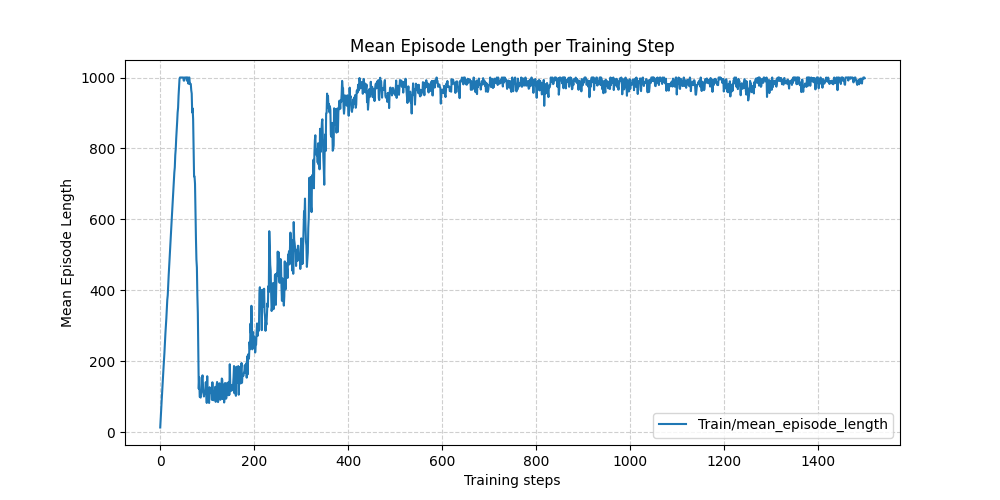
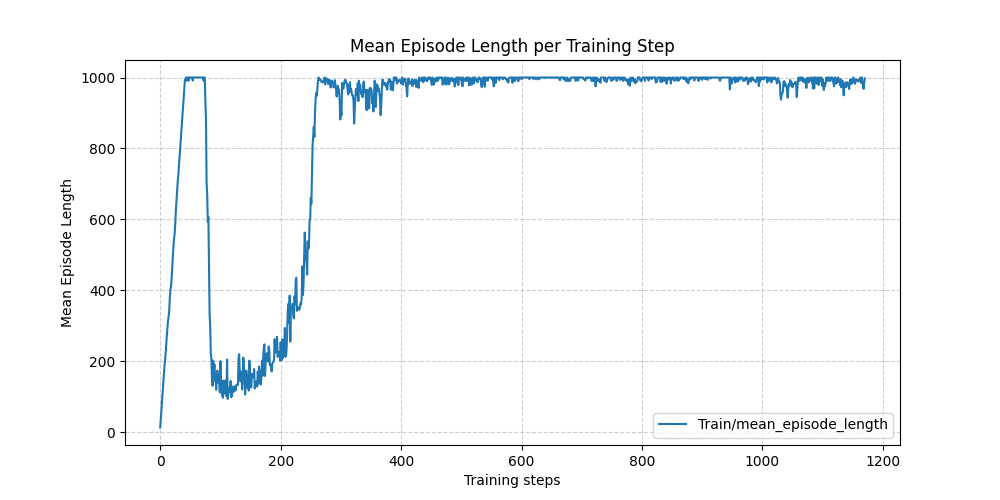
tuned legstand rewards

diff --git a/scripts/moe_quadruped/view_rewardterms.py b/scripts/moe_quadruped/view_rewardterms.py
@@ -1,0 +1,121 @@
+from tensorboard.backend.event_processing.event_accumulator import EventAccumulator
+import matplotlib.pyplot as plt
+import numpy as np
+import os
+import re
+import itertools
+
+
+def collect_scalars(ea, pattern, ignore_last_k=0):
+    """Return {tag: (steps, values)} for scalar tags matching regex."""
+    tags = ea.Tags()["scalars"]
+    matched = [t for t in tags if re.search(pattern, t)]
+    data = {}
+
+    for tag in matched:
+        events = ea.Scalars(tag)
+        steps = np.array([e.step for e in events])
+        values = np.array([e.value for e in events], dtype=float)
+
+        # sanitize NaNs/Infs for plotting
+        values = np.nan_to_num(values, nan=np.nan, posinf=np.nan, neginf=np.nan)
+
+        if ignore_last_k > 0 and len(values) > ignore_last_k:
+            steps = steps[:-ignore_last_k]
+            values = values[:-ignore_last_k]
+
+        data[tag] = (steps, values)
+
+    return data
+
+
+def analyze_reward_terms(event_file, ignore_last_k=0, save_path="reward_analysis.png"):
+
+    if not os.path.exists(event_file):
+        raise FileNotFoundError(event_file)
+
+    print("[INFO] Loading:", event_file)
+    ea = EventAccumulator(event_file)
+    ea.Reload()
+
+    print(f"[INFO] Loaded {len(ea.Tags()['scalars'])} scalar tags.")
+
+    # -----------------------------
+    # Regex patterns
+    # -----------------------------
+    flatvel_pattern = r"Rewards/flatVel/Episode_Reward/.*"
+    legstand_pattern = r"Rewards/legStand/Episode_Reward/.*"
+    global_pattern = r"^(Train/.*|Metrics/.*|Loss/.*)"
+    all_rewards_pattern = r"Episode_Reward/.*"
+
+    # -----------------------------
+    # Load data
+    # -----------------------------
+    flatvel_data = collect_scalars(ea, flatvel_pattern, ignore_last_k)
+    legstand_data = collect_scalars(ea, legstand_pattern, ignore_last_k)
+    global_data = collect_scalars(ea, global_pattern, ignore_last_k)
+    all_rewards = collect_scalars(ea, all_rewards_pattern, ignore_last_k)
+
+    # Load Train/mean_reward for overlay
+    mean_reward_data = collect_scalars(ea, r"Train/mean_reward", ignore_last_k)
+    mean_reward_steps, mean_reward_values = list(mean_reward_data.values())[0] if mean_reward_data else ([], [])
+
+    # -----------------------------
+    # Create 2x2 subplot
+    # -----------------------------
+    fig, axes = plt.subplots(2, 2, figsize=(18, 12))
+    axes = axes.flatten()
+
+    groups = [
+        ("FlatVel Reward Terms", flatvel_data),
+        ("LegStand Reward Terms", legstand_data),
+        ("Global / MT Terms", global_data),
+        ("All Episode Reward Terms", all_rewards),
+    ]
+
+    # Colormap for many curves
+    color_cycle = plt.cm.get_cmap("tab20").colors  # 20 distinct colors
+    color_iter = itertools.cycle(color_cycle)
+
+    # -----------------------------
+    # Plot each group
+    # -----------------------------
+    for ax, (title, group) in zip(axes, groups):
+        if len(group) == 0:
+            ax.set_title(title + " (no matching tags)")
+            ax.axis('off')
+            continue
+
+        print(f"\n[INFO] Plotting {title}, {len(group)} tags")
+
+        for tag, (steps, values) in group.items():
+            color = next(color_iter)
+            ax.plot(steps, values, label=tag, color=color)
+
+            # Plot episode-average points where not NaN
+            mask = ~np.isnan(values)
+            ax.scatter(steps[mask], values[mask], marker='x', color=color, s=20, alpha=0.7)
+
+            # Print stats
+            if len(values) > 0:
+                print(f"  {tag}: mean={np.nanmean(values):.4f}, "
+                      f"max={np.nanmax(values):.4f}, min={np.nanmin(values):.4f}")
+
+        ax.set_title(title)
+        ax.set_xlabel("Step")
+        ax.set_ylabel("Reward Value")
+        ax.grid(True, linestyle="--", alpha=0.5)
+        ax.legend(fontsize=6)
+
+    # Overlay Train/mean_reward
+    #if len(mean_reward_steps) > 0:
+    #    ax.plot(mean_reward_steps, mean_reward_values, 'k-', linewidth=2, label="Train/mean_reward")
+
+    plt.tight_layout()
+    plt.savefig(save_path, dpi=200)
+    print(f"\n[INFO] Saved figure to: {save_path}")
+
+
+if __name__ == "__main__":
+    event_file = r"logs/rsl_rl/unitree_go2_flat/2025-11-25_09-43-10_run43_mt_moe_fl_oh/events.out.tfevents.1764063822.lrz-server1.3617652.0"
+    analyze_reward_terms(event_file, ignore_last_k=0, save_path="reward_term_analysis.png")

diff --git a/source/isaaclab_tasks/isaaclab_tasks/manager_based/locomotion/velocity/config/go2_moe/legstand_rewards.py b/source/isaaclab_tasks/isaaclab_tasks/manager_based/locomotion/velocity/config/go2_moe/legstand_rewards.py
@@ -9,12 +9,11 @@ from isaaclab.sensors import ContactSensor
 from isaaclab.envs import ManagerBasedRLEnv
 
 
-
 def legstand_feet_height_exp(
-    env: ManagerBasedRLEnv,
-    std: float,
-    target_height: float,
-    asset_cfg: SceneEntityCfg = SceneEntityCfg("robot"),
+        env: ManagerBasedRLEnv,
+        std: float,
+        target_height: float,
+        asset_cfg: SceneEntityCfg = SceneEntityCfg("robot"),
 ) -> torch.Tensor:
     # extract the used quantities (to enable type-hinting)
     asset: RigidObject = env.scene[asset_cfg.name]
@@ -24,17 +23,25 @@ def legstand_feet_height_exp(
 
 
 def legstand_orientation_l2(
-    env: ManagerBasedRLEnv,
-    target_gravity: list[float],
-    asset_cfg: SceneEntityCfg = SceneEntityCfg("robot"),
+        env: ManagerBasedRLEnv,
+        target_gravity: list[float],
+        asset_cfg: SceneEntityCfg = SceneEntityCfg("robot"),
 ) -> torch.Tensor:
     """Penalize deviation of robot's base orientation from target (projected gravity).
     For legstand we want base upright, so use target_gravity=[1, 0, 0] or similar."""
-    
+
     asset: RigidObject = env.scene[asset_cfg.name]
     target = torch.tensor(target_gravity, device=env.device)
-    
-    return torch.sum(torch.square(asset.data.projected_gravity_b - target), dim=1)
+
+    #return torch.sum(torch.square(asset.data.projected_gravity_b - target), dim=1)
+
+    # prevent singular or large values
+    pg = asset.data.projected_gravity_b
+    pg = torch.nan_to_num(pg, 0.0)
+    pg = torch.clamp(pg, -10.0, 10.0)
+
+    err = torch.sum((pg - target)**2, dim=1)
+    return torch.clamp(err, 0.0, 10.0)
 
 
 def legstand_front_feet_air(
@@ -69,6 +76,7 @@ def legstand_base_contact_penalty(
     contact = contact_sensor.data.net_forces_w[:, sensor_cfg.body_ids, 2]
     return -torch.clamp(contact, min=0.0, max=100.0).sum(dim=1) / 100.0
 
+
 """
 def legstand_joint_limit_penalty(
     env: ManagerBasedRLEnv,
@@ -84,8 +92,8 @@ def legstand_joint_limit_penalty(
 
 
 def legstand_drift_penalty(
-    env: ManagerBasedRLEnv,
-    asset_cfg: SceneEntityCfg = SceneEntityCfg("robot"),
+        env: ManagerBasedRLEnv,
+        asset_cfg: SceneEntityCfg = SceneEntityCfg("robot"),
 ) -> torch.Tensor:
     """Penalize drifting away from the starting XY position (helps balance stability)."""
     asset: RigidObject = env.scene[asset_cfg.name]
@@ -95,9 +103,9 @@ def legstand_drift_penalty(
 
 
 def legstand_bonus_upright(
-    env: ManagerBasedRLEnv,
-    orientation_cfg: SceneEntityCfg = SceneEntityCfg("robot"),
-    sensor_cfg: SceneEntityCfg = SceneEntityCfg("contact_forces"),
+        env: ManagerBasedRLEnv,
+        orientation_cfg: SceneEntityCfg = SceneEntityCfg("robot"),
+        sensor_cfg: SceneEntityCfg = SceneEntityCfg("contact_forces"),
 ) -> torch.Tensor:
     """Bonus reward if robot is upright AND front feet are in the air."""
     asset: RigidObject = env.scene[orientation_cfg.name]

diff --git a/source/isaaclab_tasks/isaaclab_tasks/manager_based/locomotion_multitask/velocity/config/go2_mt/legstand_rewards.py b/source/isaaclab_tasks/isaaclab_tasks/manager_based/locomotion_multitask/velocity/config/go2_mt/legstand_rewards.py
@@ -9,12 +9,11 @@ from isaaclab.sensors import ContactSensor
 from isaaclab.envs import ManagerBasedRLEnv
 
 
-
 def legstand_feet_height_exp(
-    env: ManagerBasedRLEnv,
-    std: float,
-    target_height: float,
-    asset_cfg: SceneEntityCfg = SceneEntityCfg("robot"),
+        env: ManagerBasedRLEnv,
+        std: float,
+        target_height: float,
+        asset_cfg: SceneEntityCfg = SceneEntityCfg("robot"),
 ) -> torch.Tensor:
     # extract the used quantities (to enable type-hinting)
     asset: RigidObject = env.scene[asset_cfg.name]
@@ -24,17 +23,25 @@ def legstand_feet_height_exp(
 
 
 def legstand_orientation_l2(
-    env: ManagerBasedRLEnv,
-    target_gravity: list[float],
-    asset_cfg: SceneEntityCfg = SceneEntityCfg("robot"),
+        env: ManagerBasedRLEnv,
+        target_gravity: list[float],
+        asset_cfg: SceneEntityCfg = SceneEntityCfg("robot"),
 ) -> torch.Tensor:
     """Penalize deviation of robot's base orientation from target (projected gravity).
     For legstand we want base upright, so use target_gravity=[1, 0, 0] or similar."""
-    
+
     asset: RigidObject = env.scene[asset_cfg.name]
     target = torch.tensor(target_gravity, device=env.device)
-    
-    return torch.sum(torch.square(asset.data.projected_gravity_b - target), dim=1)
+
+    #return torch.sum(torch.square(asset.data.projected_gravity_b - target), dim=1)
+
+    # prevent singular or large values
+    pg = asset.data.projected_gravity_b
+    pg = torch.nan_to_num(pg, 0.0)
+    pg = torch.clamp(pg, -10.0, 10.0)
+
+    err = torch.sum((pg - target)**2, dim=1)
+    return torch.clamp(err, 0.0, 10.0)
 
 
 def legstand_front_feet_air(
@@ -69,6 +76,7 @@ def legstand_base_contact_penalty(
     contact = contact_sensor.data.net_forces_w[:, sensor_cfg.body_ids, 2]
     return -torch.clamp(contact, min=0.0, max=100.0).sum(dim=1) / 100.0
 
+
 """
 def legstand_joint_limit_penalty(
     env: ManagerBasedRLEnv,
@@ -84,8 +92,8 @@ def legstand_joint_limit_penalty(
 
 
 def legstand_drift_penalty(
-    env: ManagerBasedRLEnv,
-    asset_cfg: SceneEntityCfg = SceneEntityCfg("robot"),
+        env: ManagerBasedRLEnv,
+        asset_cfg: SceneEntityCfg = SceneEntityCfg("robot"),
 ) -> torch.Tensor:
     """Penalize drifting away from the starting XY position (helps balance stability)."""
     asset: RigidObject = env.scene[asset_cfg.name]
@@ -95,9 +103,9 @@ def legstand_drift_penalty(
 
 
 def legstand_bonus_upright(
-    env: ManagerBasedRLEnv,
-    orientation_cfg: SceneEntityCfg = SceneEntityCfg("robot"),
-    sensor_cfg: SceneEntityCfg = SceneEntityCfg("contact_forces"),
+        env: ManagerBasedRLEnv,
+        orientation_cfg: SceneEntityCfg = SceneEntityCfg("robot"),
+        sensor_cfg: SceneEntityCfg = SceneEntityCfg("contact_forces"),
 ) -> torch.Tensor:
     """Bonus reward if robot is upright AND front feet are in the air."""
     asset: RigidObject = env.scene[orientation_cfg.name]

diff --git a/source/isaaclab_tasks/isaaclab_tasks/manager_based/locomotion_multitask/velocity/config/go2_mt/legstand_env_cfg.py b/source/isaaclab_tasks/isaaclab_tasks/manager_based/locomotion_multitask/velocity/config/go2_mt/legstand_env_cfg.py
@@ -19,10 +19,13 @@ class UnitreeGo2LegStandRewardsCfg(RewardsCfg):
     front_feet_height = RewTerm(
         func=legstand_feet_height_exp,
         weight=0.0,
-        params={"asset_cfg": SceneEntityCfg("robot", body_names=["FL_foot", "FR_foot"]),
-                 "target_height": 0.5, "std": math.sqrt(0.25)},
+        params={
+            "asset_cfg": SceneEntityCfg("robot", body_names=["FL_foot", "FR_foot"]),
+            "target_height": 0.5,
+            "std": math.sqrt(0.25)
+        },
     )
-    
+
     orientation = RewTerm(
         func=legstand_orientation_l2,
         weight=0.0,
@@ -47,11 +50,12 @@ class UnitreeGo2LegStandRewardsCfg(RewardsCfg):
         params={"sensor_cfg": SceneEntityCfg("contact_forces", body_names=["base"])},
     )
 
+
 @configclass
 class UnitreeGo2LegStandEnvCfg(UnitreeGo2FlatEnvCfg):
 
     # add custom rewards
-    rewards: UnitreeGo2LegStandRewardsCfg = UnitreeGo2LegStandRewardsCfg() 
+    rewards: UnitreeGo2LegStandRewardsCfg = UnitreeGo2LegStandRewardsCfg()
 
     def __post_init__(self):
         # post init of parent
@@ -65,7 +69,6 @@ class UnitreeGo2LegStandEnvCfg(UnitreeGo2FlatEnvCfg):
         self.rewards.track_ang_vel_z_exp.weight = 0.0
         self.rewards.lin_vel_z_l2.weight = 0.0
         self.rewards.ang_vel_xy_l2.weight = 0.0
-
 
         # Add handstand-specific reward
         self.rewards.front_feet_height.weight = 1.5
@@ -89,12 +92,8 @@ class UnitreeGo2LegStandEnvCfg(UnitreeGo2FlatEnvCfg):
         self.curriculum.terrain_levels = None
 
 
-
-
-        
-
-
 class UnitreeGo2LegStandEnvCfg_PLAY(UnitreeGo2LegStandEnvCfg):
+
     def __post_init__(self) -> None:
         # post init of parent
         super().__post_init__()

diff --git a/source/isaaclab_tasks/isaaclab_tasks/manager_based/locomotion_multitask/velocity/config/go2_mt/mt4_env_cfg.py b/source/isaaclab_tasks/isaaclab_tasks/manager_based/locomotion_multitask/velocity/config/go2_mt/mt4_env_cfg.py
@@ -10,14 +10,14 @@ from isaaclab.utils import configclass
 from .flat_env_cfg import UnitreeGo2FlatEnvCfg
 from .rough_env_cfg import UnitreeGo2RoughEnvCfg
 from .legstand_env_cfg import UnitreeGo2LegStandEnvCfg
-import torch
 
 
 @configclass
 class MTLocomotionEnvCfg(ManagerBasedMTRLEnvCfg):
-    """Configuration for the reach end-effector pose tracking environment."""
+    """Setup tasks to include in the multitask environment."""
 
     append_task_id: bool = False  # set via cli args, e.g. --append_task_id True, for consistent RL alg. as well
+
     flatVel: TaskConfigs = UnitreeGo2FlatEnvCfg()
     #flatVel2: TaskConfigs = UnitreeGo2FlatEnvCfg()
 
@@ -27,14 +27,14 @@ class MTLocomotionEnvCfg(ManagerBasedMTRLEnvCfg):
 
     def __post_init__(self):
         """Post initialization."""
-        # general settings
+        # general settings for all tasks
         self.sim.dt = 0.005
         self.decimation = 4
         self.num_multi_task_envs = 2
         self.task_spacing = 20.0
         self.num_envs_per_task = 128
         self.envs_spacing = 2.5
-        #self.append_task_id = True
+
         self.concatenate_step_results = True
 
         self.sim.render_interval = self.decimation

diff --git a/scripts/moe_quadruped/view_tensorboard.py b/scripts/moe_quadruped/view_tensorboard.py
@@ -119,7 +119,7 @@ def analyze_tfevents(event_file: str, ignore_last_k: int = 0):
     fig.suptitle("Training Analysis", fontsize=11)
     plt.tight_layout()
     plt.show()
-    plt.savefig('run_41_ppo_with_onehot_vec.png')
+    plt.savefig('run_42_moe_fl_with_onehot_vec.png')
 
     # ---------------------
     # Plot Mean Episode Length
@@ -144,7 +144,7 @@ def analyze_tfevents(event_file: str, ignore_last_k: int = 0):
 
 
 if __name__ == "__main__":
-    event_file = r"logs/rsl_rl/unitree_go2_flat/2025-11-25_06-09-22_run41_mt_ppo_fl_oh/events.out.tfevents.1764050993.lrz-server1.3600078.0"
+    event_file = r"logs/rsl_rl/unitree_go2_flat/2025-11-25_09-43-10_run43_mt_moe_fl_oh/events.out.tfevents.1764063822.lrz-server1.3617652.0"
 
     # ignore last 200 iterations
-    analyze_tfevents(event_file, ignore_last_k=0)
+    analyze_tfevents(event_file, ignore_last_k=3)
